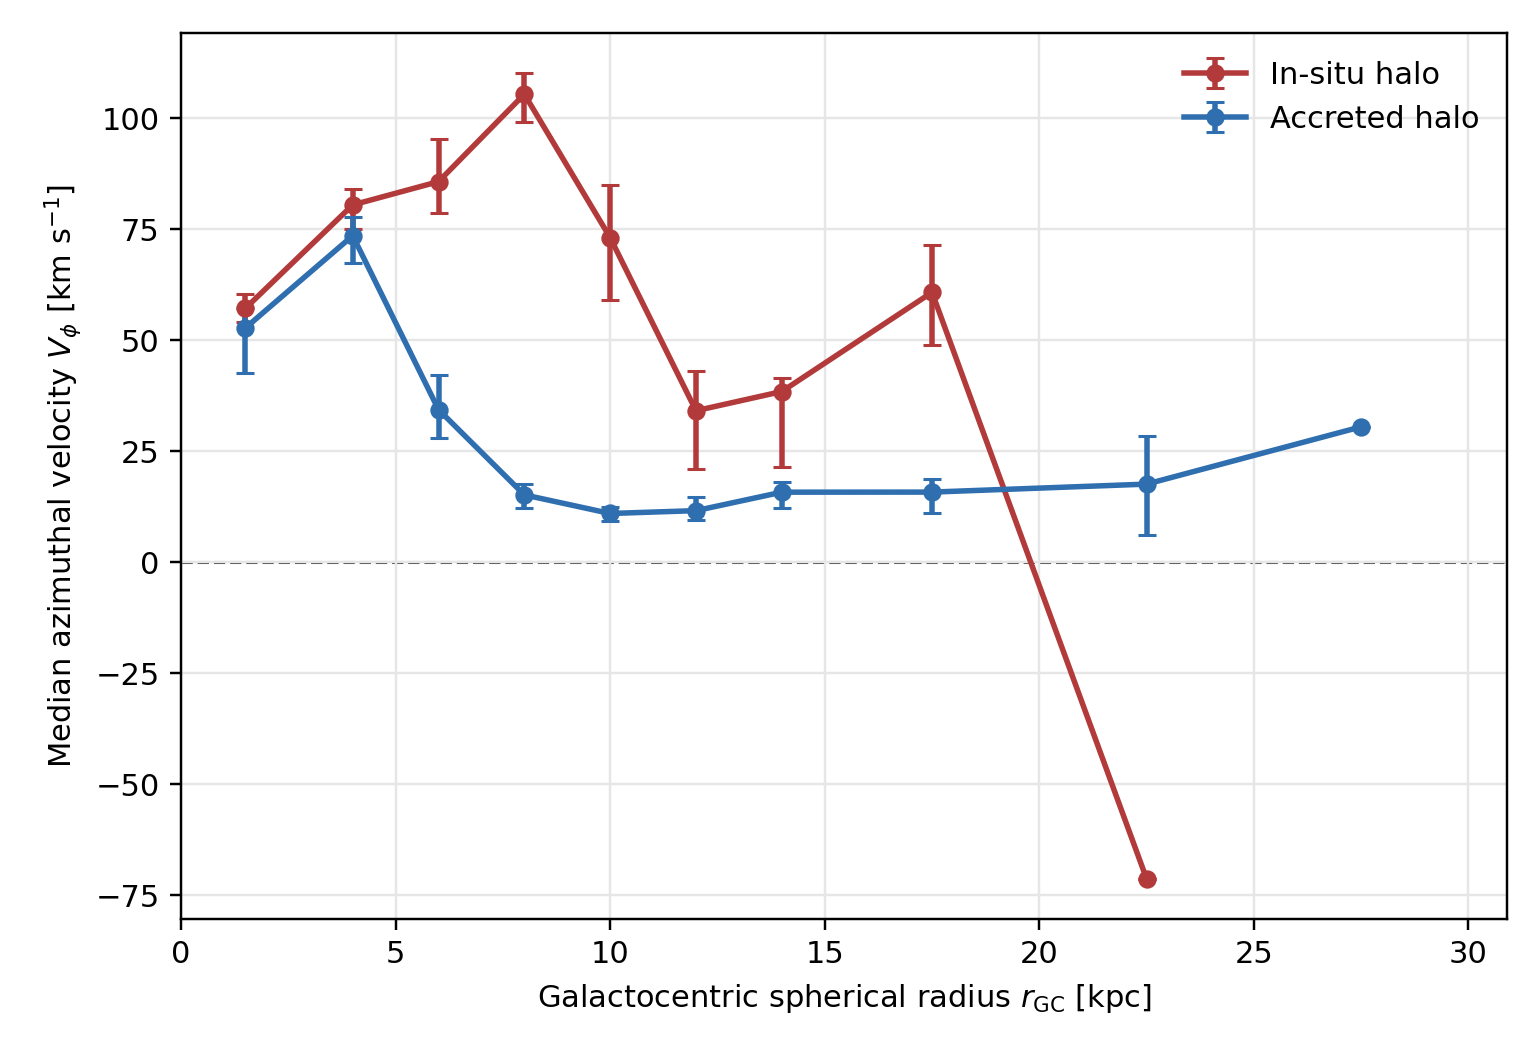
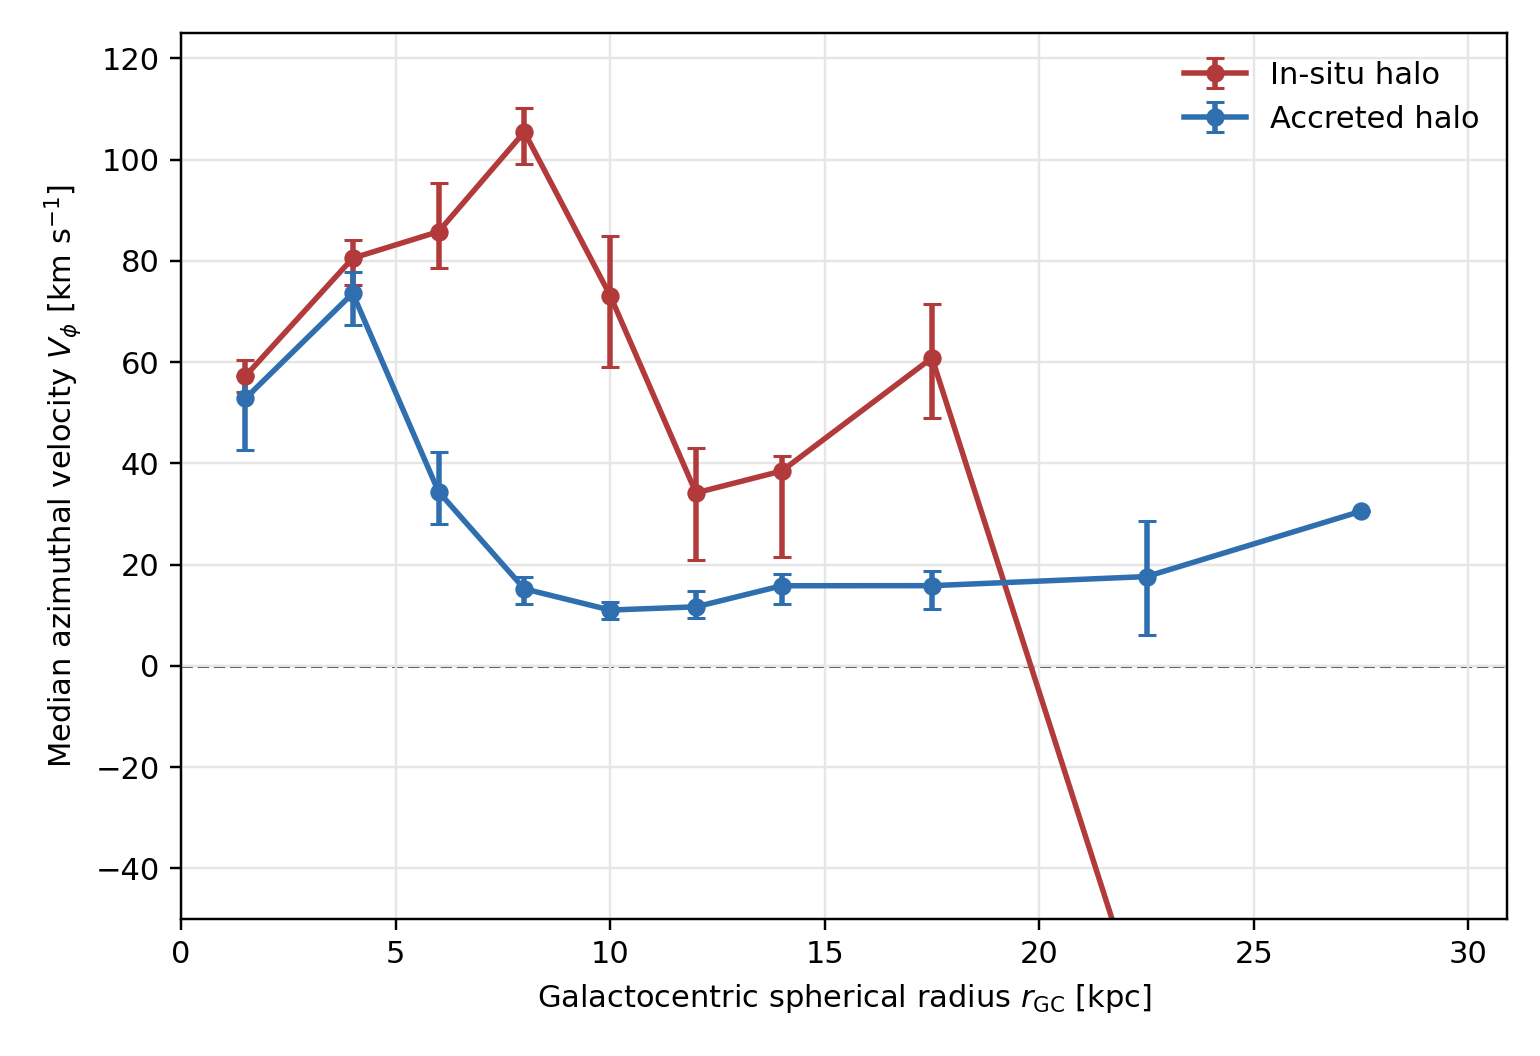
Add radius histograms and fix velocity scale

diff --git a/scripts/measure_apogee_halo_rotation.py b/scripts/measure_apogee_halo_rotation.py
@@ -33,6 +33,8 @@ DEFAULT_OUT_PLOT = ROOT / "plots" / "apogee_halo_rotation_vs_radius.png"
 DEFAULT_OUT_CHEM_PLOT = ROOT / "plots" / "apogee_halo_chemical_selection.png"
 DEFAULT_OUT_RZ_PLOT = ROOT / "plots" / "apogee_halo_rz_z_distribution.png"
 DEFAULT_OUT_ZSPLIT_PLOT = ROOT / "plots" / "apogee_halo_rotation_z_slices.png"
+DEFAULT_OUT_RHIST_PLOT = ROOT / "plots" / "apogee_halo_radius_histograms_z_slices.png"
+VELOCITY_YLIM = (-50.0, 125.0)
 
 BAD_ASPCAPFLAGS = (
     "STAR_BAD",
@@ -84,6 +86,8 @@ def parse_args() -> argparse.Namespace:
     parser.add_argument("--out-rz-pdf", type=Path, default=None)
     parser.add_argument("--out-zsplit-plot", type=Path, default=DEFAULT_OUT_ZSPLIT_PLOT)
     parser.add_argument("--out-zsplit-pdf", type=Path, default=None)
+    parser.add_argument("--out-rhist-plot", type=Path, default=DEFAULT_OUT_RHIST_PLOT)
+    parser.add_argument("--out-rhist-pdf", type=Path, default=None)
     parser.add_argument(
         "--zsplit-comparison-feh-max",
         type=float,
@@ -459,6 +463,7 @@ def plot_rotation(binned: pd.DataFrame, out_plot: Path, out_pdf: Path | None) ->
         ax.set_xlim(0.0, float(finite_bins["r_max_kpc"].max()) * 1.03)
     else:
         ax.set_xlim(left=0)
+    ax.set_ylim(*VELOCITY_YLIM)
     fig.tight_layout()
 
     out_plot.parent.mkdir(parents=True, exist_ok=True)
@@ -490,7 +495,6 @@ def plot_rotation_z_slices(
     binned_by_panel: dict[str, pd.DataFrame] = {}
     comparison_binned_by_panel: dict[str, pd.DataFrame] = {}
     counts: dict[str, dict[str, int]] = {}
-    finite_values: list[float] = []
     for offset, (key, _title, subset) in enumerate(panels):
         binned = summarize_rotation(
             subset,
@@ -510,25 +514,13 @@ def plot_rotation_z_slices(
                 random_seed=random_seed + 2000 + offset,
             )
             comparison_binned_by_panel[key] = comparison_binned
-            comparison_finite = comparison_binned.loc[
-                np.isfinite(comparison_binned["median_vphi_kms"]),
-                "median_vphi_kms",
-            ].to_numpy(dtype=float)
-            finite_values.extend(comparison_finite.tolist())
         counts[key] = {
             "total": int(len(subset)),
             "in_situ": int((subset["population"] == "in_situ").sum()),
             "accreted": int((subset["population"] == "accreted").sum()),
         }
-        finite = binned.loc[np.isfinite(binned["median_vphi_kms"]), "median_vphi_kms"].to_numpy(dtype=float)
-        finite_values.extend(finite.tolist())
 
     fig, axes = plt.subplots(1, 3, figsize=(14.0, 4.6), sharey=True, constrained_layout=True)
-    if finite_values:
-        ymin = min(min(finite_values) - 25.0, -25.0)
-        ymax = max(max(finite_values) + 25.0, 175.0)
-    else:
-        ymin, ymax = -25.0, 175.0
     xmax = float(np.max(radius_bins)) * 1.03
 
     for ax, (key, title, _subset) in zip(axes, panels):
@@ -575,7 +567,7 @@ def plot_rotation_z_slices(
         )
         ax.axhline(0.0, color="0.25", lw=1.0, ls="--", zorder=0)
         ax.set_xlim(0.0, xmax)
-        ax.set_ylim(ymin, ymax)
+        ax.set_ylim(*VELOCITY_YLIM)
         ax.set_xlabel(r"$r_{\rm GC}$ [kpc]")
         ax.grid(True, color="0.9", lw=0.8)
 
@@ -597,6 +589,70 @@ def plot_rotation_z_slices(
         fig.savefig(out_pdf)
     plt.close(fig)
     return counts
+
+
+def plot_radius_histograms_z_slices(
+    measurement: pd.DataFrame,
+    radius_bins: list[float],
+    comparison_feh_max: float,
+    out_plot: Path,
+    out_pdf: Path | None,
+) -> None:
+    colors = {"in_situ": "#b33a3a", "accreted": "#2f6fb0"}
+    labels = {"in_situ": "In-situ halo", "accreted": "Accreted halo"}
+    panels = [
+        ("All", measurement),
+        (r"$|z| < 3$ kpc", measurement.loc[np.abs(measurement["galz"]) < 3.0]),
+        (r"$|z| > 3$ kpc", measurement.loc[np.abs(measurement["galz"]) > 3.0]),
+    ]
+    bins = np.asarray(radius_bins, dtype=float)
+    if len(bins) < 2:
+        raise ValueError("radius_bins must contain at least two edges")
+
+    fig, axes = plt.subplots(1, 3, figsize=(14.0, 4.3), sharey=True, constrained_layout=True)
+    for ax, (title, subset) in zip(axes, panels):
+        for population in ("in_situ", "accreted"):
+            pop = subset.loc[subset["population"] == population]
+            radius = pd.to_numeric(pop["r_gc_kpc"], errors="coerce").to_numpy(dtype=float)
+            radius = radius[np.isfinite(radius)]
+            if len(radius) == 0:
+                continue
+
+            counts, edges = np.histogram(radius, bins=bins)
+            ax.stairs(counts, edges, color=colors[population], lw=2.0, label=labels[population])
+
+            if np.isfinite(comparison_feh_max):
+                comparison = pop.loc[pd.to_numeric(pop["FE_H"], errors="coerce") < comparison_feh_max]
+                comparison_radius = pd.to_numeric(comparison["r_gc_kpc"], errors="coerce").to_numpy(dtype=float)
+                comparison_radius = comparison_radius[np.isfinite(comparison_radius)]
+                if len(comparison_radius):
+                    comparison_counts, _ = np.histogram(comparison_radius, bins=bins)
+                    ax.stairs(comparison_counts, edges, color=colors[population], lw=1.7, ls="--")
+
+        ax.set_title(f"{title}\nN={len(subset):,}")
+        ax.set_xlim(float(bins[0]), float(bins[-1]))
+        ax.set_yscale("log")
+        ax.set_ylim(bottom=0.8)
+        ax.set_xlabel(r"$r_{\rm GC}$ [kpc]")
+        ax.grid(True, color="0.9", lw=0.8)
+
+    axes[0].set_ylabel("Star count")
+    legend_handles = [
+        Line2D([0], [0], color=colors["in_situ"], lw=2.0, label="In-situ halo"),
+        Line2D([0], [0], color=colors["accreted"], lw=2.0, label="Accreted halo"),
+    ]
+    if np.isfinite(comparison_feh_max):
+        legend_handles.append(
+            Line2D([0], [0], color="0.2", lw=1.7, ls="--", label=fr"$[Fe/H] < {comparison_feh_max:g}$")
+        )
+    axes[0].legend(handles=legend_handles, frameon=False, loc="upper right")
+
+    out_plot.parent.mkdir(parents=True, exist_ok=True)
+    fig.savefig(out_plot, dpi=220)
+    if out_pdf is not None:
+        out_pdf.parent.mkdir(parents=True, exist_ok=True)
+        fig.savefig(out_pdf)
+    plt.close(fig)
 
 
 def plot_chemical_selection(
@@ -805,6 +861,13 @@ def main() -> None:
         out_plot=args.out_zsplit_plot,
         out_pdf=args.out_zsplit_pdf,
     )
+    plot_radius_histograms_z_slices(
+        measurement,
+        radius_bins=radius_bins,
+        comparison_feh_max=args.zsplit_comparison_feh_max,
+        out_plot=args.out_rhist_plot,
+        out_pdf=args.out_rhist_pdf,
+    )
 
     summary = {
         "allstar_path": str(allstar_path),
@@ -840,6 +903,8 @@ def main() -> None:
         "output_rz_z_distribution_pdf": None if args.out_rz_pdf is None else str(args.out_rz_pdf),
         "output_zsplit_rotation_plot": str(args.out_zsplit_plot),
         "output_zsplit_rotation_pdf": None if args.out_zsplit_pdf is None else str(args.out_zsplit_pdf),
+        "output_radius_histograms_plot": str(args.out_rhist_plot),
+        "output_radius_histograms_pdf": None if args.out_rhist_pdf is None else str(args.out_rhist_pdf),
         "notes": [
             "APOGEE chemistry and quality flags are from DR17 allStarLite.",
             "Coordinates, velocities, and velocity errors are from AstroNN DR17.",
@@ -868,6 +933,7 @@ def main() -> None:
     print(f"Saved {args.out_chem_plot}")
     print(f"Saved {args.out_rz_plot}")
     print(f"Saved {args.out_zsplit_plot}")
+    print(f"Saved {args.out_rhist_plot}")
 
 
 if __name__ == "__main__":

diff --git a/README.md b/README.md
@@ -55,7 +55,7 @@ The reported rotation is the median astroNN Galactocentric azimuthal velocity `g
 r_GC = sqrt(galr^2 + galz^2)
 ```
 
-where `galr` is the astroNN cylindrical Galactocentric radius. Bootstrap 16th/84th percentile intervals are shown for the median velocity.
+where `galr` is the astroNN cylindrical Galactocentric radius. Bootstrap 16th/84th percentile intervals are shown for the median velocity. Velocity plots use a fixed vertical range of `-50` to `125 km/s`.
 
 Run the analysis with:
 
@@ -117,6 +117,10 @@ Bulk rotation versus Galactocentric radius:
 Rotation split by height from the Galactic plane. Solid curves use `[Fe/H] < -1.0`; dashed curves use `[Fe/H] < -1.3`.
 
 ![Rotation z slices](plots/apogee_halo_rotation_z_slices.png)
+
+Radius histograms for the same all, `|z| < 3 kpc`, and `|z| > 3 kpc` selections, using the same radius bins as the velocity plots and a base-10 logarithmic count axis:
+
+![Radius histograms z slices](plots/apogee_halo_radius_histograms_z_slices.png)
 
 Spatial distribution of the measured in-situ and accreted samples:
 

diff --git a/docs/apogee_halo_rotation_notes.md b/docs/apogee_halo_rotation_notes.md
@@ -35,4 +35,4 @@ The measured bulk rotation is the median astroNN `galvt` in bins of spherical Ga
 r_GC = sqrt(galr^2 + galz^2).
 ```
 
-Bootstrap 16th/84th percentile intervals are computed for the median velocity. By default, plots are PNG only; PDF outputs are optional command-line arguments.
+Bootstrap 16th/84th percentile intervals are computed for the median velocity. Velocity plots use fixed y-axis limits of `-50` to `125 km/s`. The radius histograms use the same radial bin edges as the velocity plots and a base-10 logarithmic count axis. By default, plots are PNG only; PDF outputs are optional command-line arguments.